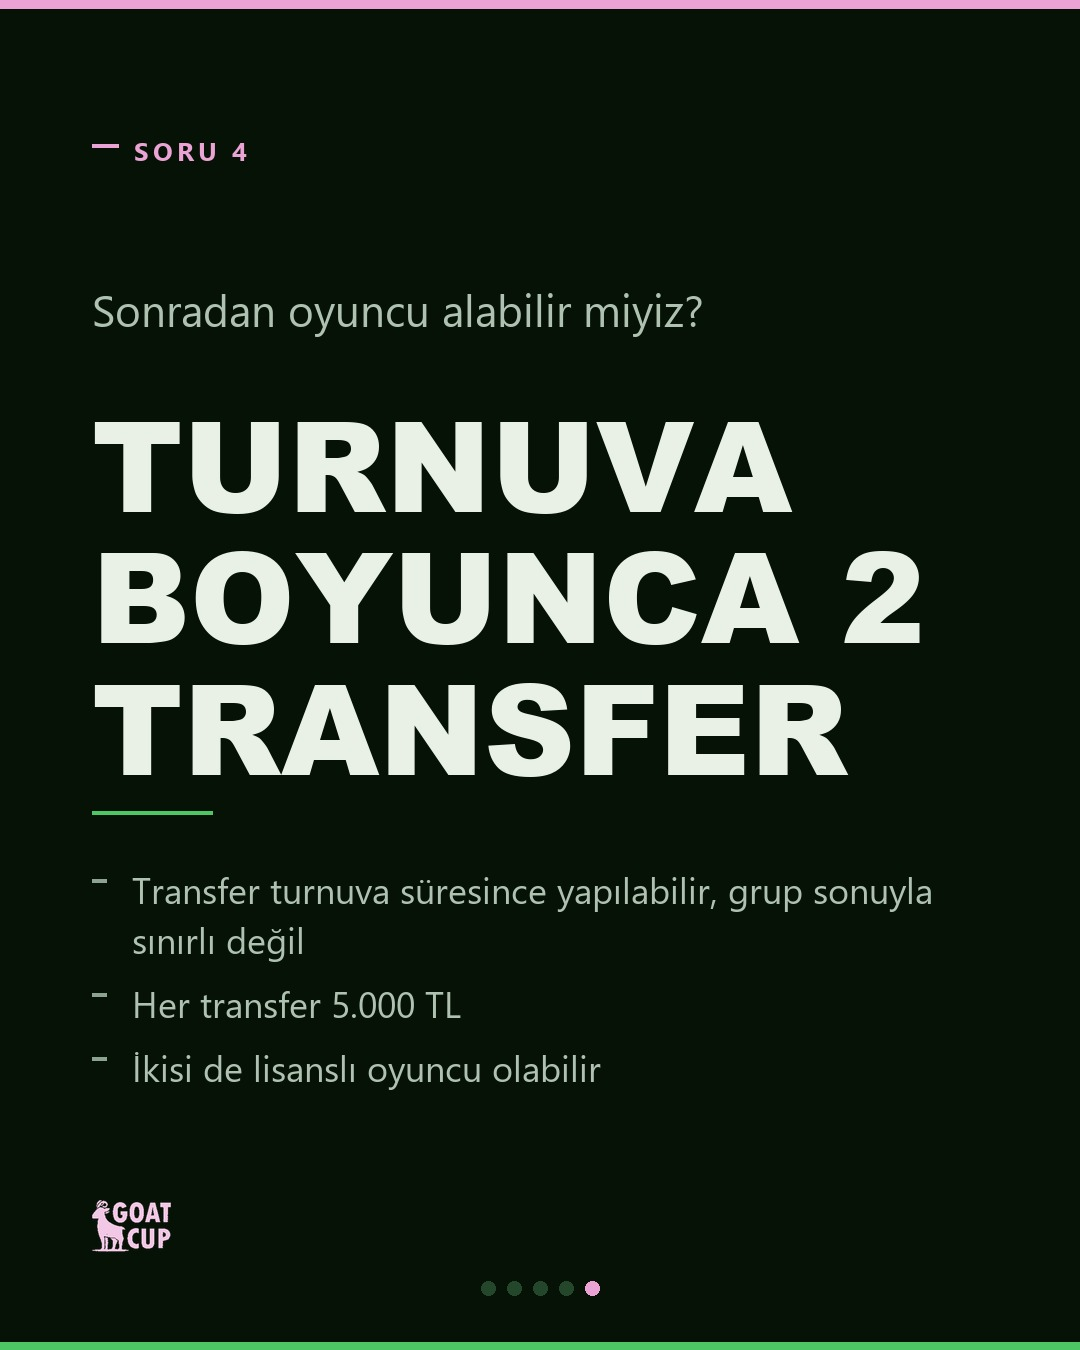
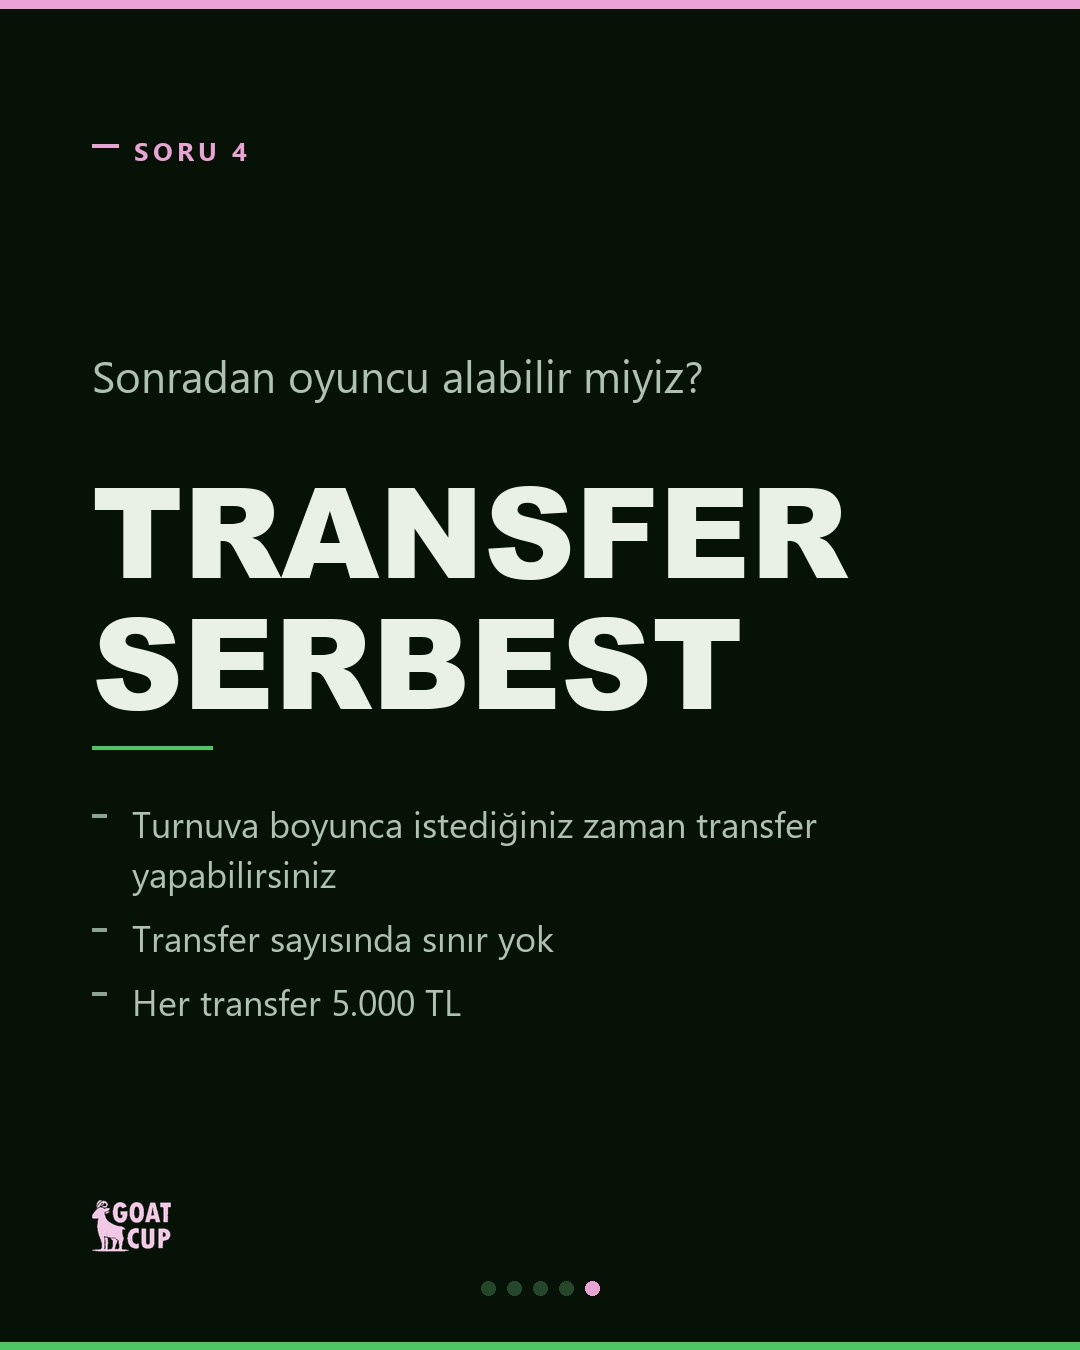
Transfer kurali duzeltildi: sinir yok
Transfer turnuva boyunca serbest, sayi siniri yok, her transfer 5.000 TL.
Onceki hali iki transferle sinirli diyordu.

Prova PDF'inin ozet sayfasi artik kendi kendine sigiyor: gonderi metni her
uretimde farkli uzunlukta cikiyor ve sabit olculerle her seferinde elle ayar
gerekiyordu. Once kart seridi, yetmezse punto kuculuyor.

Changed region(s): [[0.0917, 0.2178, 0.8556, 0.8089], [0.6722, 0.6533, 0.8556, 0.6844]]

diff --git a/tools/prova_pdf.py b/tools/prova_pdf.py
@@ -93,7 +93,8 @@ def logo(yukseklik, pembe=True):
 # ------------------------------------------------------------------ sayfa 1
 
 
-def ozet():
+def ozet_ciz(kart_olcek=1.0, metin_boy=25):
+    """Ozet sayfasini cizer. Sigmazsa None doner - bkz. ozet()."""
     img = Image.new("RGB", (W, H), AK)
     d = ImageDraw.Draw(img)
     d.rectangle([0, 0, W, 10], fill=ACCENT)
@@ -108,54 +109,54 @@ def ozet():
 
     y += 104
     af = fnt(BODY, 27)
-    d.text((M, y), "5 kartlık Instagram karuseli · henüz yayınlanmadı", font=af, fill=INK2)
+    d.text((M, y), f"{len(KARTLAR)} kartlık Instagram karuseli · henüz yayınlanmadı",
+           font=af, fill=INK2)
 
     # --- kartlar seridi ---
     y = baslik(d, y + 76, "Kartlar")
-    kart_g = (W - 2 * M - 4 * 22) // 5
+    tam_g = (W - 2 * M - (len(KARTLAR) - 1) * 22) // len(KARTLAR)
+    kart_g = round(tam_g * kart_olcek)
     kart_y = round(kart_g * 1350 / 1080)
-    x = M
-    for i in range(1, 6):
+    x = M + (tam_g - kart_g) // 2
+    for i in range(1, len(KARTLAR) + 1):
         with Image.open(GORSEL / f"kurallar-{i}.jpg") as k:
             img.paste(k.convert("RGB").resize((kart_g, kart_y), Image.LANCZOS), (x, y))
         d.rectangle([x, y, x + kart_g - 1, y + kart_y - 1], outline=LINE, width=1)
         d.text((x, y + kart_y + 12), f"{i:02d}", font=fnt(BODY_B, 20), fill=INK3)
-        x += kart_g + 22
+        x += tam_g + 22
 
     # --- metin ---
+    satir_y = round(metin_boy * 1.52)
+    bos_y = round(metin_boy * 0.64)
     y = baslik(d, y + kart_y + 54, "Gönderi metni")
-    mf = fnt(BODY, 25)
+    mf = fnt(BODY, metin_boy)
     satirlar = sar(d, METIN, mf, W - 2 * M - 60)
-    # Kutu yuksekligi cizim dongusuyle birebir ayni hesaplanmali: dolu satir
-    # 38, bos satir 16 px. Ayri formul kullanmak kutuyu sisiriyordu.
-    ic_yukseklik = sum(16 if not s else 38 for s in satirlar)
-    kutu_y = ic_yukseklik + 56
+    # Kutu yuksekligi cizim dongusuyle birebir ayni hesaplanmali; ayri
+    # formul kullanmak kutuyu sisiriyordu.
+    kutu_y = sum(bos_y if not s else satir_y for s in satirlar) + 56
     d.rounded_rectangle([M, y, W - M, y + kutu_y], radius=10, fill=SUNKEN)
     d.rectangle([M, y, M + 4, y + kutu_y], fill=ACCENT)
 
     ty = y + 28
     for s in satirlar:
         if not s:
-            ty += 16
+            ty += bos_y
             continue
         d.text((M + 30, ty), s, font=mf, fill=ACCENT if s.startswith("#") else INK)
-        ty += 38
+        ty += satir_y
 
     # --- kontrol listesi ---
     y = baslik(d, y + kutu_y + 44, "Ekipten istenen: doğrulama")
-    kf = fnt(BODY, 25)
+    kf = fnt(BODY, metin_boy)
     for madde in KONTROL:
         d.rounded_rectangle([M + 2, y + 4, M + 26, y + 28], radius=5, outline=TURF, width=2)
         for s in sar(d, madde, kf, W - 2 * M - 50):
             d.text((M + 46, y), s, font=kf, fill=INK)
-            y += 36
+            y += satir_y - 2
         y += 5
 
     if y > H - 126:
-        raise SystemExit(
-            f"Sayfa 1 tasti: icerik {y}px'e kadar iniyor, sinir {H - 126}px. "
-            "Kontrol listesi kisaltilmali veya kart seridi kucultulmeli."
-        )
+        return None  # sigmadi; cagiran daha kucuk olcekle tekrar dener
 
     # --- alt bilgi ---
     lg = logo(34, pembe=False)
@@ -165,6 +166,24 @@ def ozet():
     d.text((W - M - d.textlength(f"Hazırlanma: {bugun}", font=ff), H - 88),
            f"Hazırlanma: {bugun}", font=ff, fill=INK3)
     return img
+
+
+def ozet():
+    """Sayfayi sigana kadar kucultur.
+
+    Gonderi metni her uretimde farkli uzunlukta cikiyor; sabit olculerle
+    her seferinde elle ayar gerekiyordu. Once kart seridi kuculur (sadece
+    kucuk onizleme), yetmezse yazi puntosu."""
+    for kart_olcek, metin_boy in [
+        (1.00, 25), (0.92, 25), (0.86, 24), (0.80, 23), (0.72, 22), (0.64, 21),
+    ]:
+        img = ozet_ciz(kart_olcek, metin_boy)
+        if img is not None:
+            return img
+    raise SystemExit(
+        "Sayfa 1 en kucuk olcekte bile sigmadi. Gonderi metni veya "
+        "dogrulama listesi kisaltilmali."
+    )
 
 
 # --------------------------------------------------------------- kart sayfa

diff --git a/tools/icerik.py b/tools/icerik.py
@@ -41,11 +41,11 @@ KARTLAR = [
     ),
     (
         "Sonradan oyuncu alabilir miyiz?",
-        "TURNUVA BOYUNCA 2 TRANSFER",
+        "TRANSFER SERBEST",
         [
-            "Transfer turnuva süresince yapılabilir, grup sonuyla sınırlı değil",
+            "Turnuva boyunca istediğiniz zaman transfer yapabilirsiniz",
+            "Transfer sayısında sınır yok",
             "Her transfer 5.000 TL",
-            "İkisi de lisanslı oyuncu olabilir",
         ],
     ),
 ]
@@ -57,7 +57,7 @@ KONTROL = [
     "2007 sonrası doğumlular, lisansı olsa da lisanssız sayılır — doğru mu?",
     "Son bir yıl içinde oynamamış oyuncular lisanssız sayılır — doğru mu?",
     "Ne üst ne alt yaş sınırı yok, 18 altı veli izniyle katılır — doğru mu?",
-    "Turnuva boyunca 2 transfer, her biri 5.000 TL — doğru mu?",
+    "Transfer serbest, sayı sınırı yok, her transfer 5.000 TL — doğru mu?",
     "Metindeki “29 Ağustos'ta ilk düdük” tarihi doğru mu?",
 ]
 
